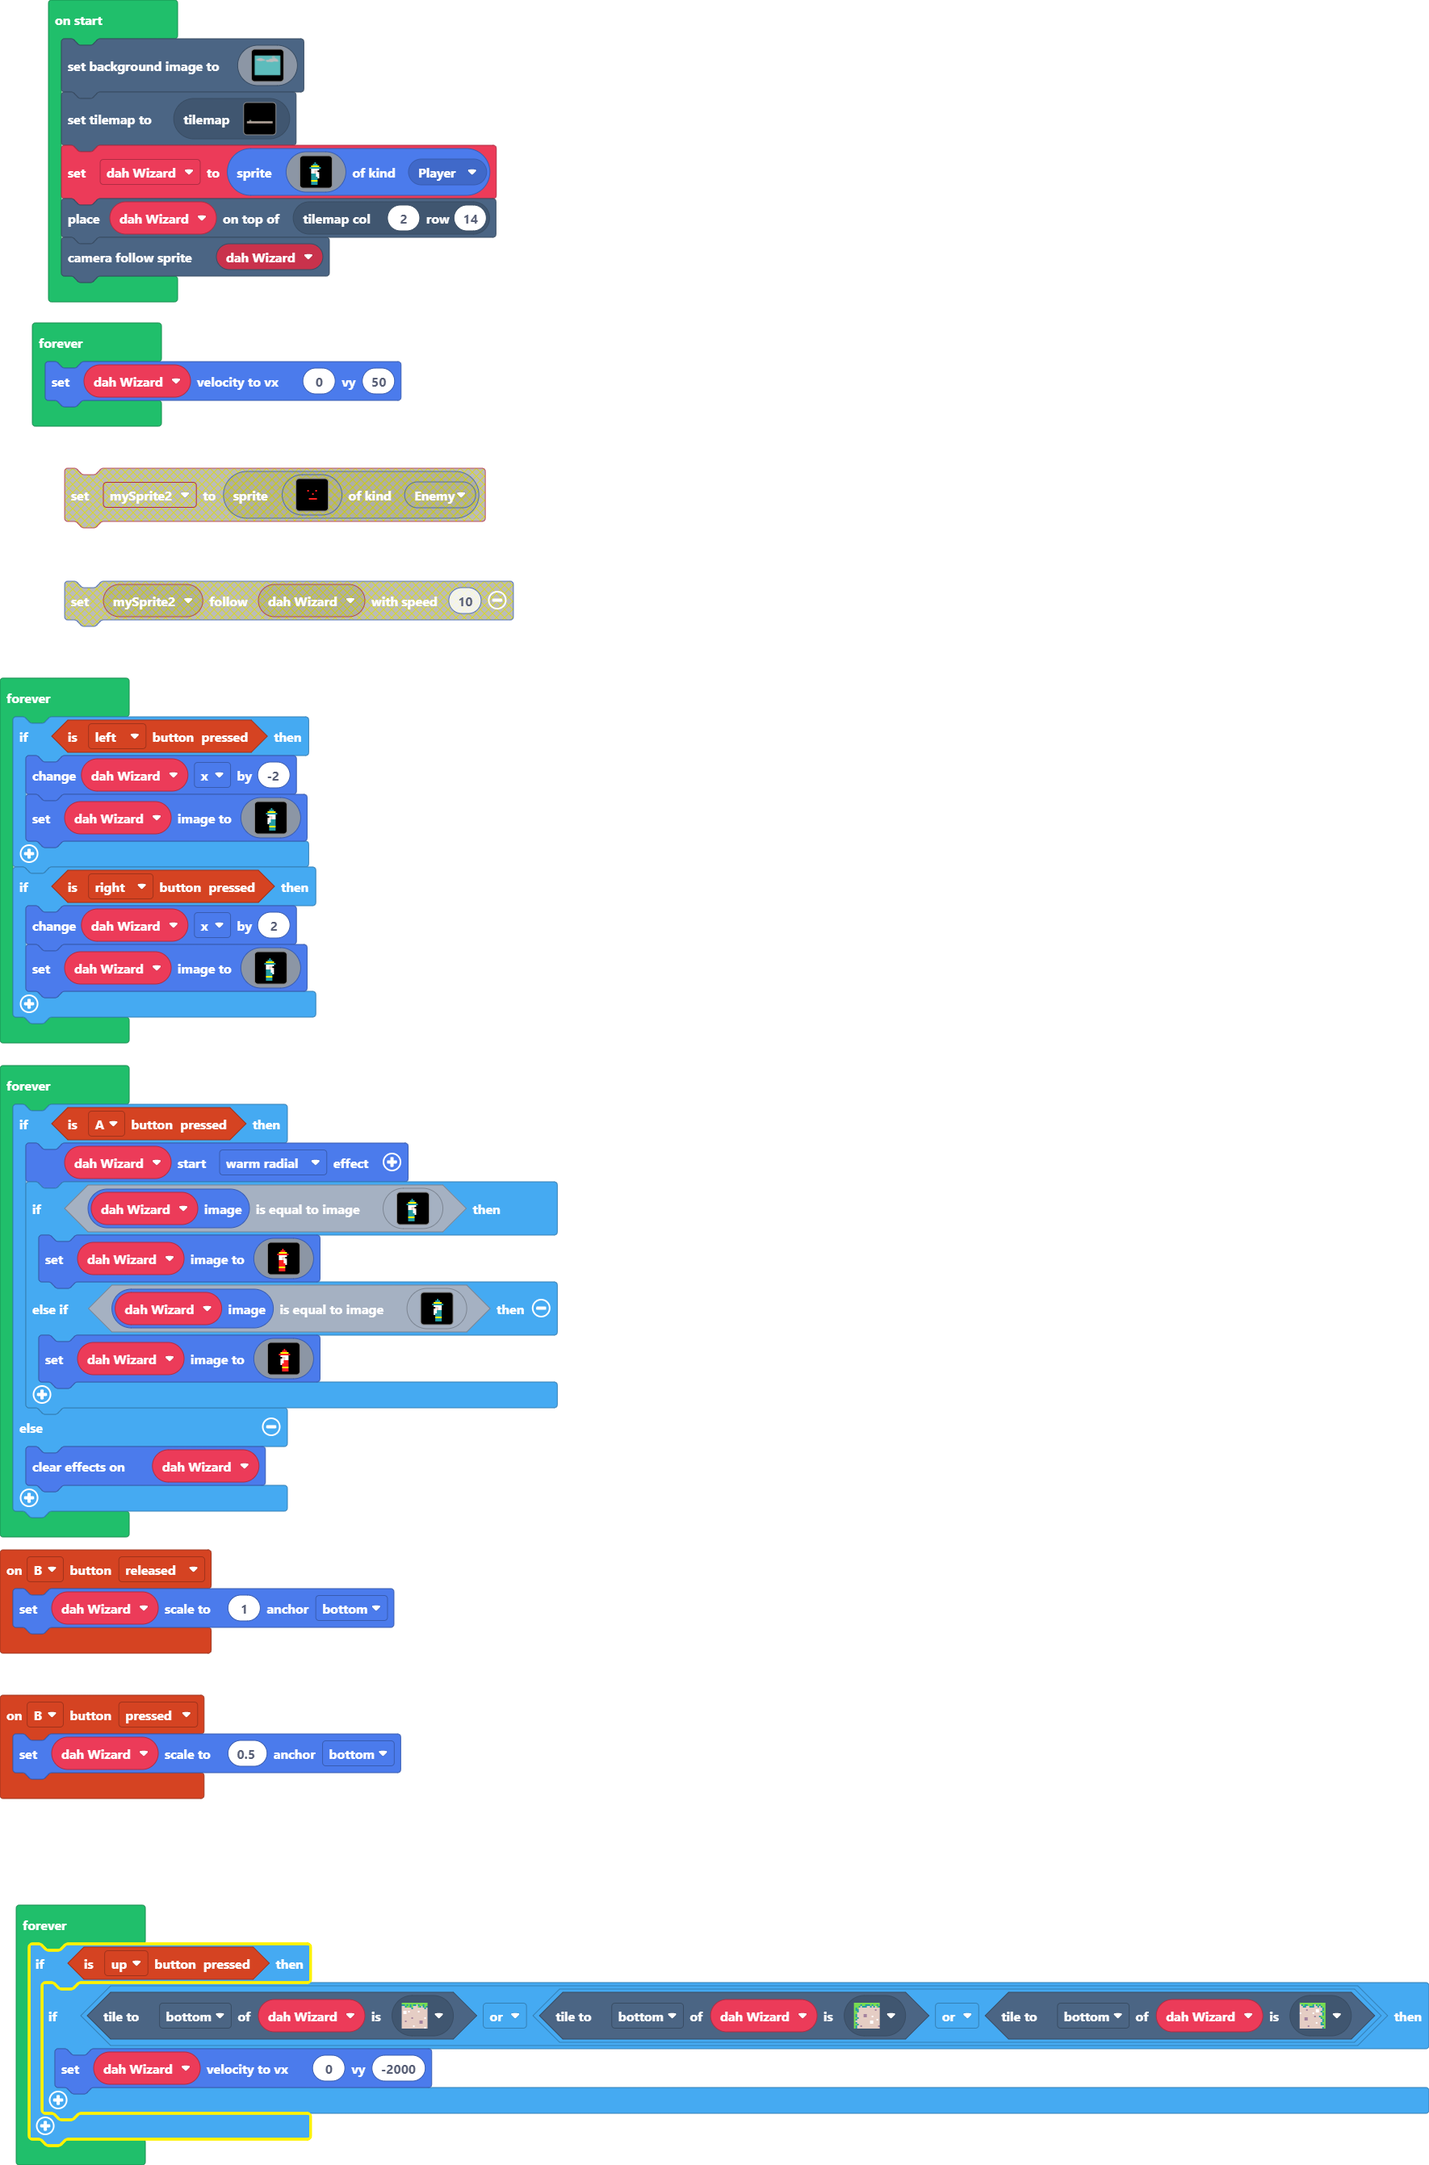
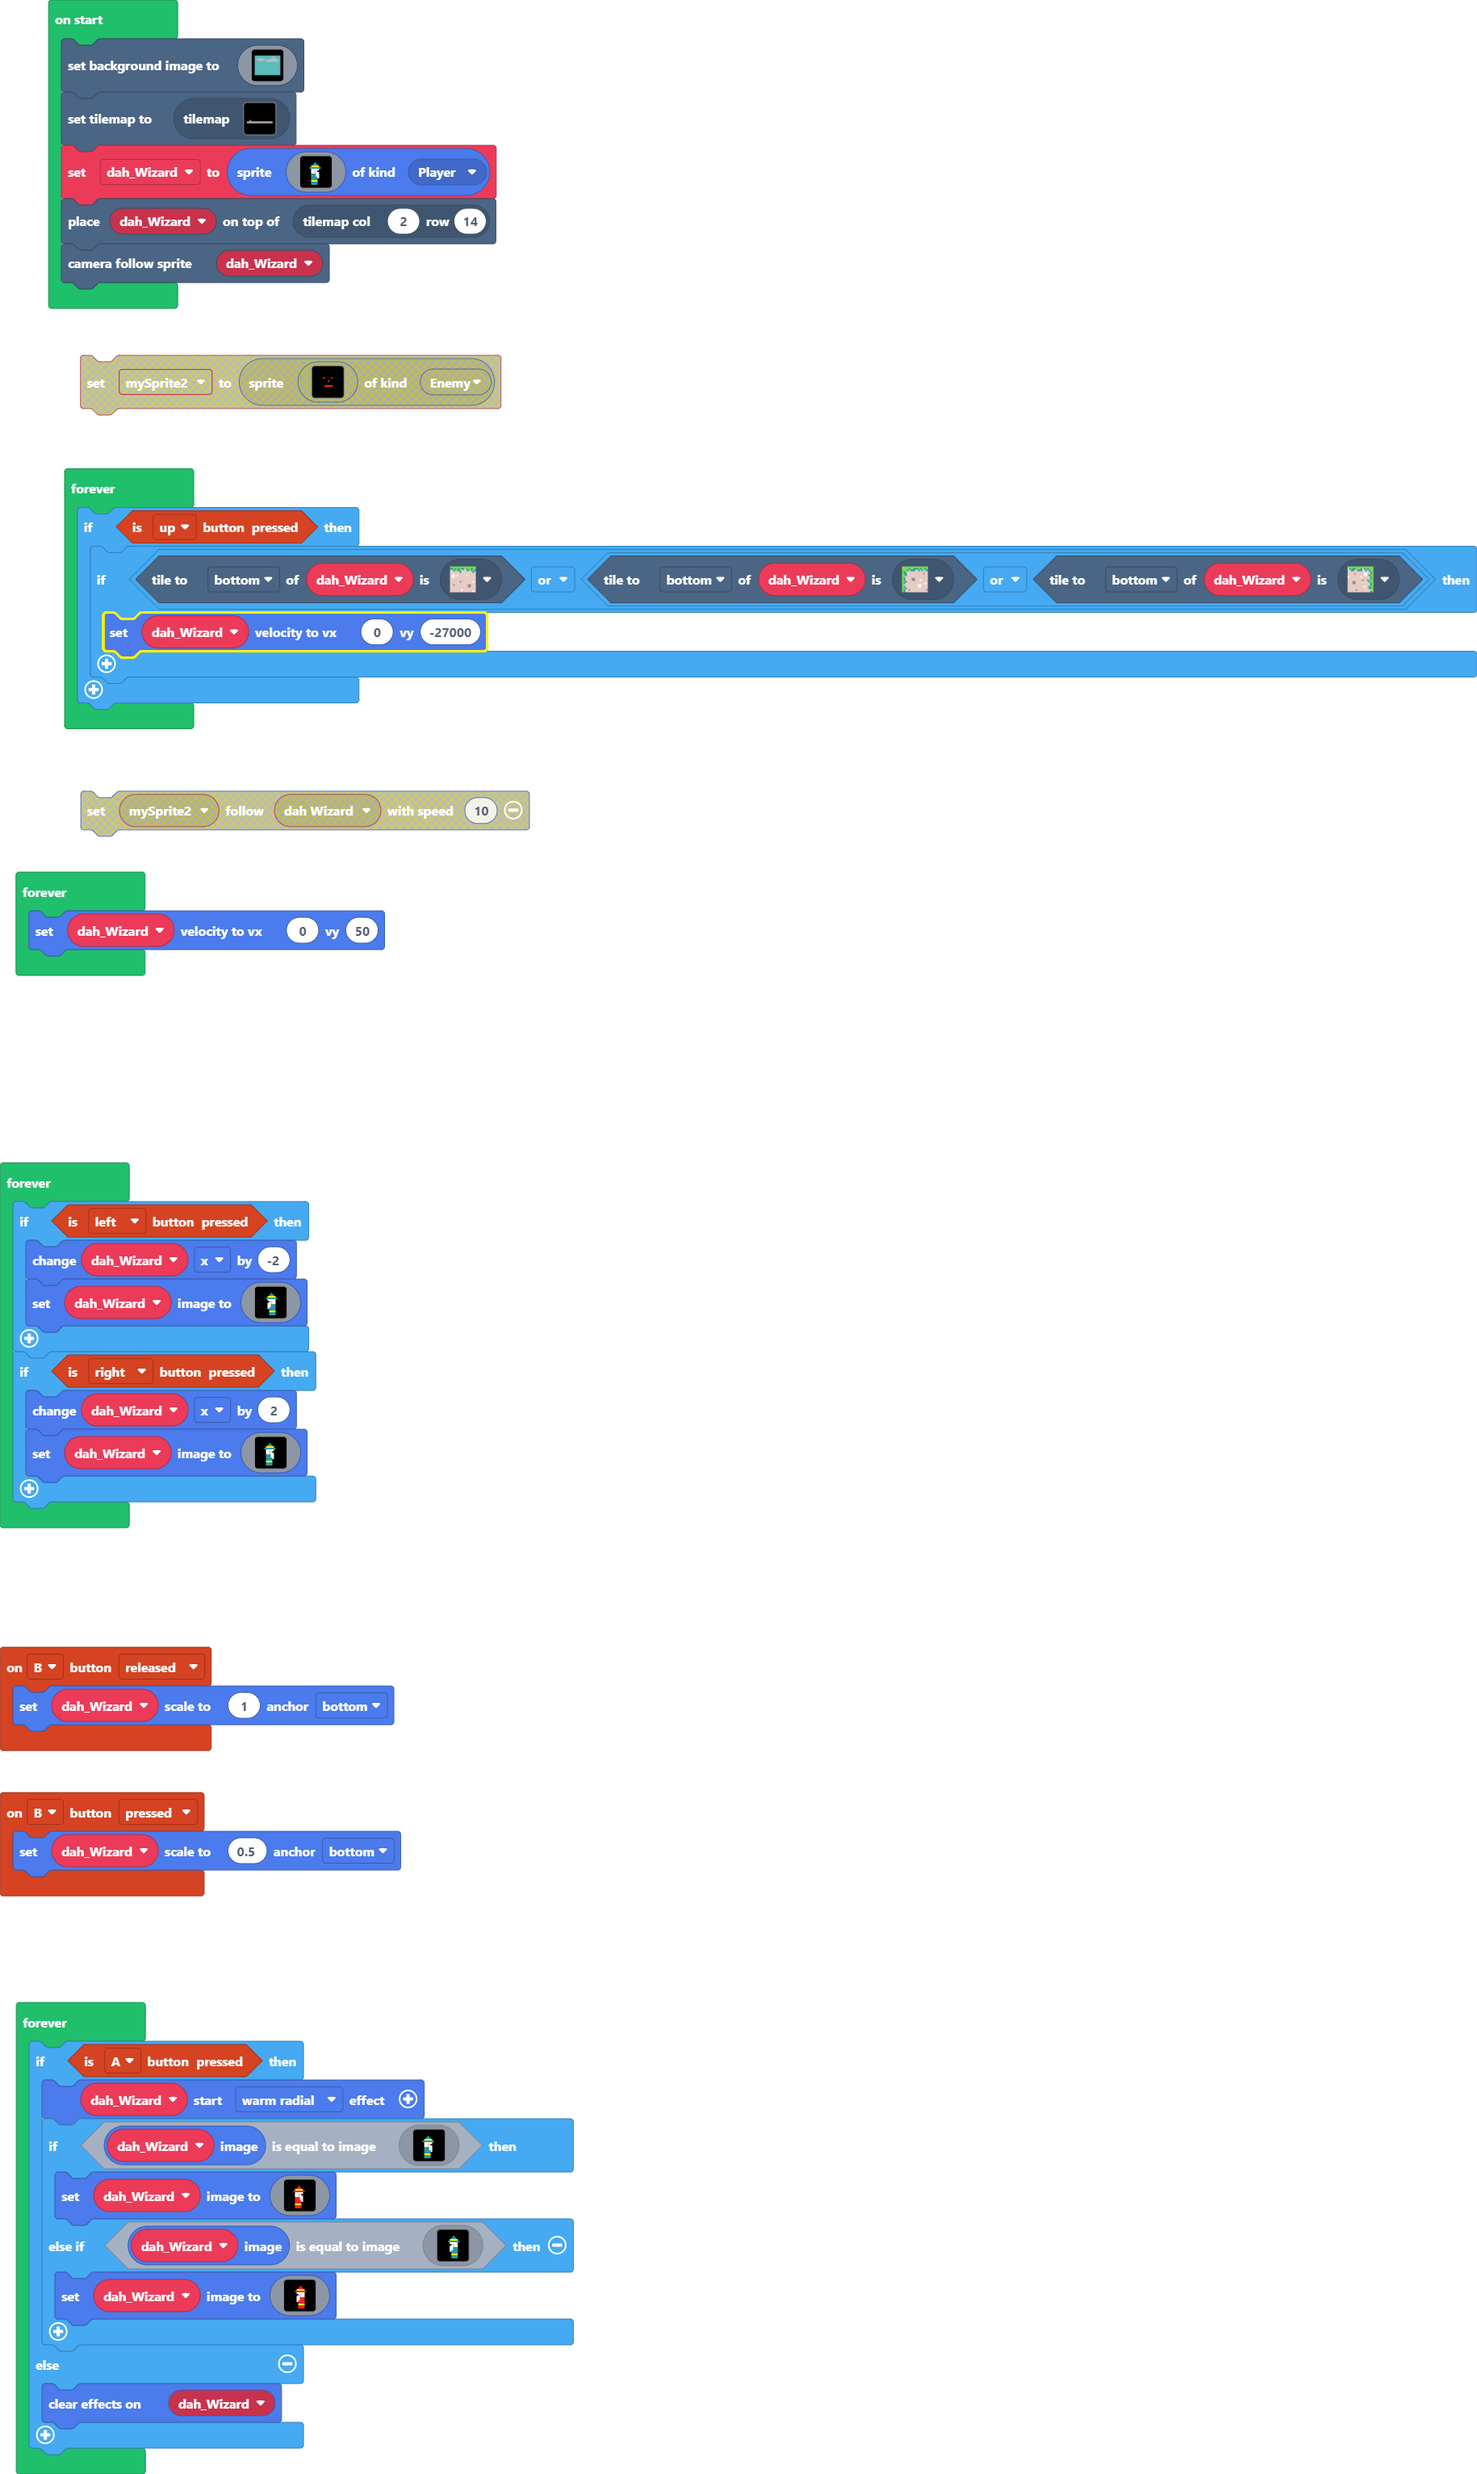
Update pxt.json, main.blocks, main.ts, main.py

Changed region(s): [[0.0, 0.0, 1.0, 1.0]]

diff --git a/main.ts b/main.ts
@@ -11,6 +11,13 @@ dah_Wizard = sprites.create(assets.image`dah Wizard right`, SpriteKind.Player)
 tiles.placeOnTile(dah_Wizard, tiles.getTileLocation(2, 14))
 scene.cameraFollowSprite(dah_Wizard)
 forever(function () {
+    if (controller.up.isPressed()) {
+        if (dah_Wizard.tileKindAt(TileDirection.Bottom, sprites.castle.tilePath2) || (dah_Wizard.tileKindAt(TileDirection.Bottom, sprites.castle.tilePath1) || dah_Wizard.tileKindAt(TileDirection.Bottom, sprites.castle.tilePath3))) {
+            dah_Wizard.setVelocity(0, -27000)
+        }
+    }
+})
+forever(function () {
     dah_Wizard.setVelocity(0, 50)
 })
 forever(function () {
@@ -33,12 +40,5 @@ forever(function () {
         }
     } else {
         effects.clearParticles(dah_Wizard)
-    }
-})
-forever(function () {
-    if (controller.up.isPressed()) {
-        if (dah_Wizard.tileKindAt(TileDirection.Bottom, sprites.castle.tilePath2) || (dah_Wizard.tileKindAt(TileDirection.Bottom, sprites.castle.tilePath1) || dah_Wizard.tileKindAt(TileDirection.Bottom, sprites.castle.tilePath3))) {
-            dah_Wizard.setVelocity(0, -2000)
-        }
     }
 })

diff --git a/main.py b/main.py
@@ -1,0 +1,63 @@
+def on_b_pressed():
+    dah_Wizard.set_scale(0.5, ScaleAnchor.BOTTOM)
+controller.B.on_event(ControllerButtonEvent.PRESSED, on_b_pressed)
+
+def on_b_released():
+    dah_Wizard.set_scale(1, ScaleAnchor.BOTTOM)
+controller.B.on_event(ControllerButtonEvent.RELEASED, on_b_released)
+
+dah_Wizard: Sprite = None
+scene.set_background_image(assets.image("""
+    sus sky
+"""))
+tiles.set_current_tilemap(tilemap("""
+    level1
+"""))
+dah_Wizard = sprites.create(assets.image("""
+        dah Wizard right
+    """),
+    SpriteKind.player)
+tiles.place_on_tile(dah_Wizard, tiles.get_tile_location(2, 14))
+scene.camera_follow_sprite(dah_Wizard)
+
+def on_forever():
+    dah_Wizard.set_velocity(0, 50)
+forever(on_forever)
+
+def on_forever2():
+    if controller.left.is_pressed():
+        dah_Wizard.x += -2
+        dah_Wizard.set_image(assets.image("""
+            dah Wizard left
+        """))
+    if controller.right.is_pressed():
+        dah_Wizard.x += 2
+        dah_Wizard.set_image(assets.image("""
+            dah Wizard right
+        """))
+forever(on_forever2)
+
+def on_forever3():
+    if controller.A.is_pressed():
+        dah_Wizard.start_effect(effects.warm_radial)
+        if dah_Wizard.image.equals(assets.image("""
+            dah Wizard right
+        """)):
+            dah_Wizard.set_image(assets.image("""
+                dah Wizard red right
+            """))
+        elif dah_Wizard.image.equals(assets.image("""
+            dah Wizard left
+        """)):
+            dah_Wizard.set_image(assets.image("""
+                dah Wizard red left
+            """))
+    else:
+        effects.clear_particles(dah_Wizard)
+forever(on_forever3)
+
+def on_forever4():
+    if controller.up.is_pressed():
+        if dah_Wizard.tile_kind_at(TileDirection.BOTTOM, sprites.castle.tile_path2) or (dah_Wizard.tile_kind_at(TileDirection.BOTTOM, sprites.castle.tile_path1) or dah_Wizard.tile_kind_at(TileDirection.BOTTOM, sprites.castle.tile_path3)):
+            dah_Wizard.set_velocity(0, -20000)
+forever(on_forever4)
